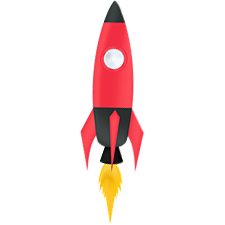
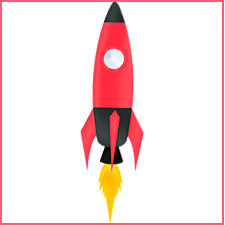
add rotation

diff --git a/src/game-objects/rocket.js b/src/game-objects/rocket.js
@@ -4,6 +4,9 @@ import {scene} from "../scene";
 import {GAME_CONFIG} from "../service/config";
 import {state} from "../state";
 
+const degToRad = (a) => a * Math.PI / 180;
+const radToDeg = (a) => a * 180 / Math.PI;
+
 const mouse = (e) => {
   const canvasBoundingRectangle = canvas.getBoundingClientRect();
   const mouseX = e.clientX - canvasBoundingRectangle.left;
@@ -34,13 +37,18 @@ export class Rocket extends GameObject {
     super(x, y);
     this.imageReady = false;
     this.image = new Image();
-    this.image.onload = () => this.imageReady = true;
+    this.image.onload = () => {
+      this.imageReady = true;
+      //this.width = this.image.width;
+      //this.height = this.image.height;
+    };
     this.image.src = './images/rocket.png';
     this.isMousePressed = false;
     this.control = scene.find('control');
+    this.rotation = 0;
 
-    this.width = 10;
-    this.height = 10;
+    this.width = 150;
+    this.height = 150;
 
     canvas = this.ctx.canvas;
     wall = scene.find('wall');
@@ -106,10 +114,14 @@ export class Rocket extends GameObject {
 
   move(delta) {
     let angleInRads = angle * (Math.PI / 180);
-    this.x = x0 + state.speed * Math.cos(angleInRads) * t * (1 / scale);
-    this.y = y0 - (state.speed * Math.sin(angleInRads) * t - g * t * t / 2) * (1 / scale);
+    const x1 = x0 + state.speed * Math.cos(angleInRads) * t * (1 / scale);
+    const y1 = y0 - (state.speed * Math.sin(angleInRads) * t - g * t * t / 2) * (1 / scale);
+    this.rotation = radToDeg(Math.atan((y1 - this.y) / (x1 - this.x)));
+    //console.log(y1 - this.y, x1 - this.x);
+    this.x = x1;
+    this.y = y1;
     //const y1 = y0 - (v0 * Math.sin(alpha) * t - g * t * t / 2) * (1 / scale);
-    //let radians = Math.atan2(y1 - this.y, x1 - this.x);
+
     //this.angle = 180 * radians / Math.PI;
     t += delta * scale;
 
@@ -125,9 +137,13 @@ export class Rocket extends GameObject {
   }
 
   rotate() {
-    this.ctx.translate(this.x, this.y);
-    this.ctx.rotate(Math.PI / 180 * (this.angle + 90));
-    this.ctx.translate(-this.x, -this.y);
+    if (!this.rotation) {
+      return;
+    }
+    console.log('rotation', this.rotation);
+    this.ctx.translate(this.x - camera.x + this.width / 2, this.y);
+    this.ctx.rotate(degToRad(this.rotation + 90));
+    this.ctx.translate(-this.x + camera.x - this.width / 2, -this.y);
   }
 
   checkWallCollision() {
@@ -147,16 +163,11 @@ export class Rocket extends GameObject {
       angle = state.angle;
     }
 
-    //console.log('ball angle ' + alpha);
-    //console.log('control angle ' + this.control.angle);
 
     super.render();
-    // if (!this.imageReady) {
-    //   return;
-    // }
-    //if (this.y <= y_floor) {
 
-    this.checkWallCollision();
+
+   // this.checkWallCollision();
 
     if (state.gameSpeed) {
       this.move(delta);
@@ -164,16 +175,18 @@ export class Rocket extends GameObject {
 
     //}
 
-    //this.rotate();
-    //this.ctx.drawImage(this.image, this.x, this.y, 150, 150);
+     this.rotate();
+
     if (this.x > this.ctx.canvas.width - cameraPadding) {
       camera.x = this.x - this.ctx.canvas.width + cameraPadding;
     }
+
+    this.ctx.drawImage(this.image, this.x - camera.x, this.y, 150, 150);
     //console.log(this.y);
-    this.ctx.beginPath();
-    this.ctx.arc(this.x - camera.x, this.y, 10, 0, 2 * Math.PI, false);
-    this.ctx.fillStyle = 'green';
-    this.ctx.fill();
+    // this.ctx.beginPath();
+    // this.ctx.arc(this.x - camera.x, this.y, 10, 0, 2 * Math.PI, false);
+    // this.ctx.fillStyle = 'green';
+    // this.ctx.fill();
     this.ctx.setTransform(1, 0, 0, 1, 0, 0);
   }
 }

diff --git a/src/game-objects/control.js b/src/game-objects/control.js
@@ -19,8 +19,8 @@ const getRotatedCoordinates = (x, y, el) => {
   const x0 = el.x;
   const y0 = el.y + el.height / 2;
 
-  console.log('x0, y0', x0, y0);
-  console.log('angle', el.angle);
+ // console.log('x0, y0', x0, y0);
+ // console.log('angle', el.angle);
   const rad = (Math.round(el.angle) * ( Math.PI / 180));
   return {
     x: Math.round(x0 + (x - x0) * Math.cos(rad) - (y - y0) * Math.sin(rad)),
@@ -61,17 +61,17 @@ export class Control extends GameObject {
     const bottomLeft = getRotatedCoordinates(this.x, this.y + this.height, this);
     const bottomRight = getRotatedCoordinates(this.x + this.width, this.y + this.height, this);
 
-    console.log('mouse', mouse(e));
-    console.log('originTopLeft', this.x, this.y);
-    console.log('originTopLeft', this.x, this.y);
-    console.log('originBottomLeft', this.x, this.y + this.height);
-    console.log('originBottomRight', this.x + this.width, this.y + this.height);
-    console.log('originTopRight', this.x + this.width, this.y);
-    console.log('topLeft', topLeft);
-    console.log('bottomLeft', bottomLeft);
-    console.log('bottomRight', bottomRight);
-    console.log('topRight', topRight);
-    console.log('___');
+    // console.log('mouse', mouse(e));
+    // console.log('originTopLeft', this.x, this.y);
+    // console.log('originTopLeft', this.x, this.y);
+    // console.log('originBottomLeft', this.x, this.y + this.height);
+    // console.log('originBottomRight', this.x + this.width, this.y + this.height);
+    // console.log('originTopRight', this.x + this.width, this.y);
+    // console.log('topLeft', topLeft);
+    // console.log('bottomLeft', bottomLeft);
+    // console.log('bottomRight', bottomRight);
+    // console.log('topRight', topRight);
+    // console.log('___');
 
     const k1 = (topLeft.x - mouseX) * (bottomLeft.y - topLeft.y) - (bottomLeft.x - topLeft.x) * (topLeft.y - mouseY);
     const m1 = (bottomLeft.x - mouseX) * (topRight.y - bottomLeft.y) - (topRight.x - bottomLeft.x) * (bottomLeft.y - mouseY);

diff --git a/src/state.js b/src/state.js
@@ -4,7 +4,7 @@ export const state = {
   gameSpeed: 0,
   angle: 45,
   y0: GAME_CONFIG.GAME_HEIGHT - GAME_CONFIG.BACKGROUND_HEIGHT,
-  x0: 50,
+  x0: 0,
   speed: 150,
   scale: 2,
   wallX: 600
